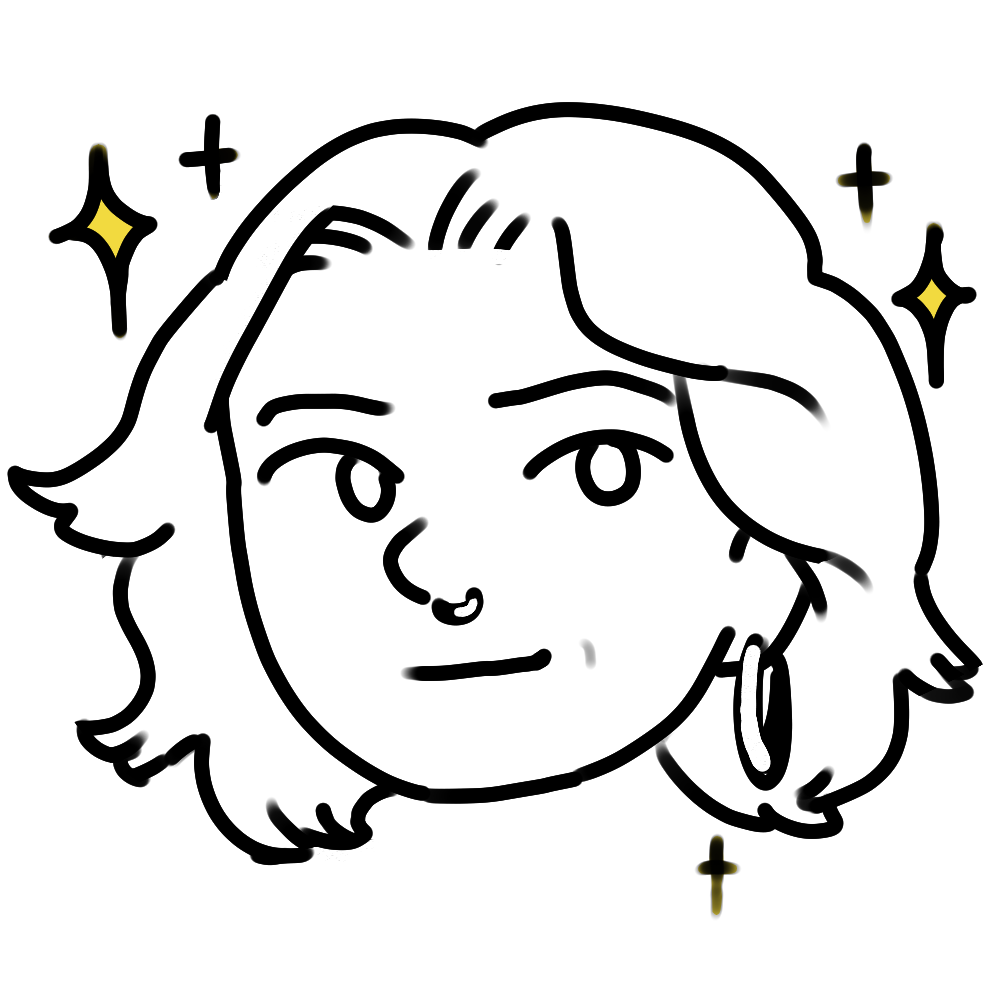
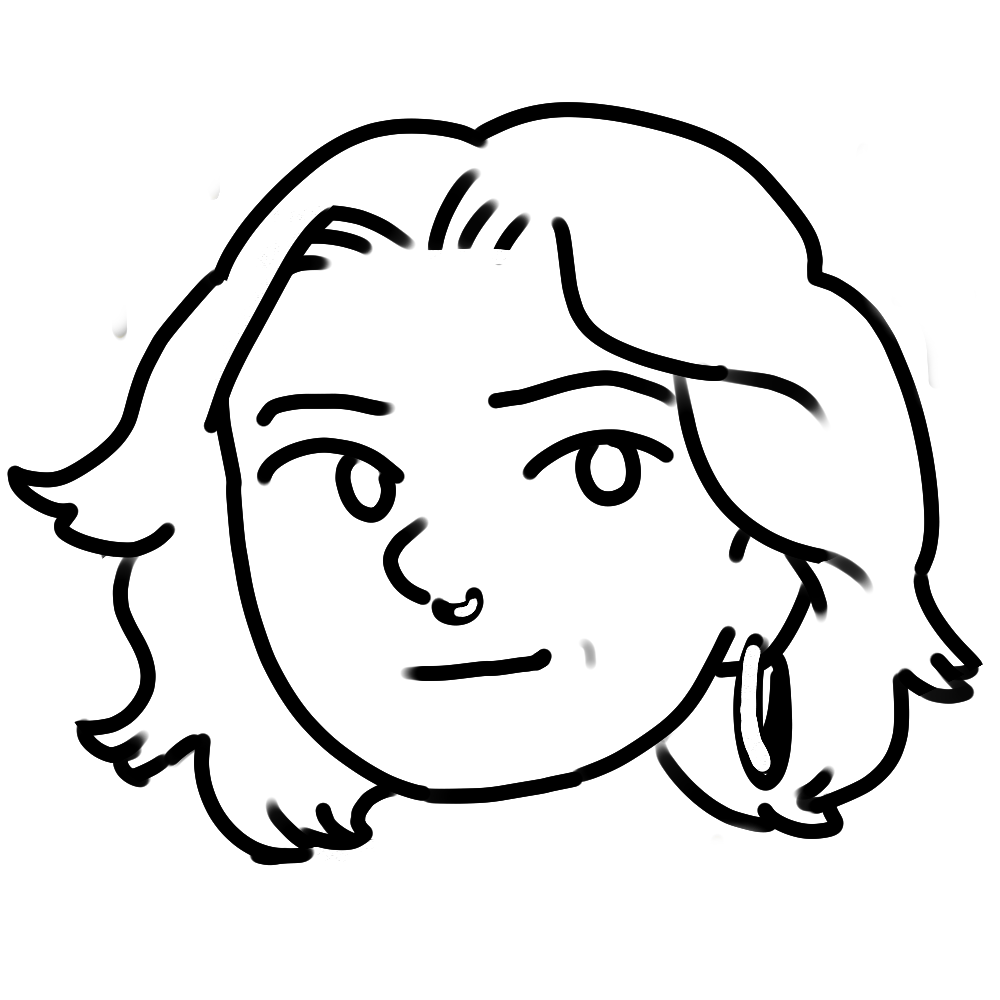
Added scouts group

diff --git a/timeline/script.js b/timeline/script.js
@@ -13,7 +13,7 @@ const years = [
   },
   {
     year: 2013,
-    height: 300,
+    height: 250,
   },
   {
     year: 2014,
@@ -66,6 +66,12 @@ const years = [
 ];
 
 const groups = [
+  {
+    name: "Scouts",
+    year: 2013,
+    y: 0,
+    x: 22,
+  },
   {
     name: "Bus",
     year: 2014,
@@ -120,14 +126,14 @@ const people = [
   {
     name: "Jamie",
     year: 2013,
-    y: 100,
-    x: 10,
+    y: 190,
+    x: 12,
   },
   {
     name: "Josef",
     year: 2013,
-    y: 380,
-    x: 20,
+    y: 190,
+    x: 32,
   },
   {
     name: "Rahil",
